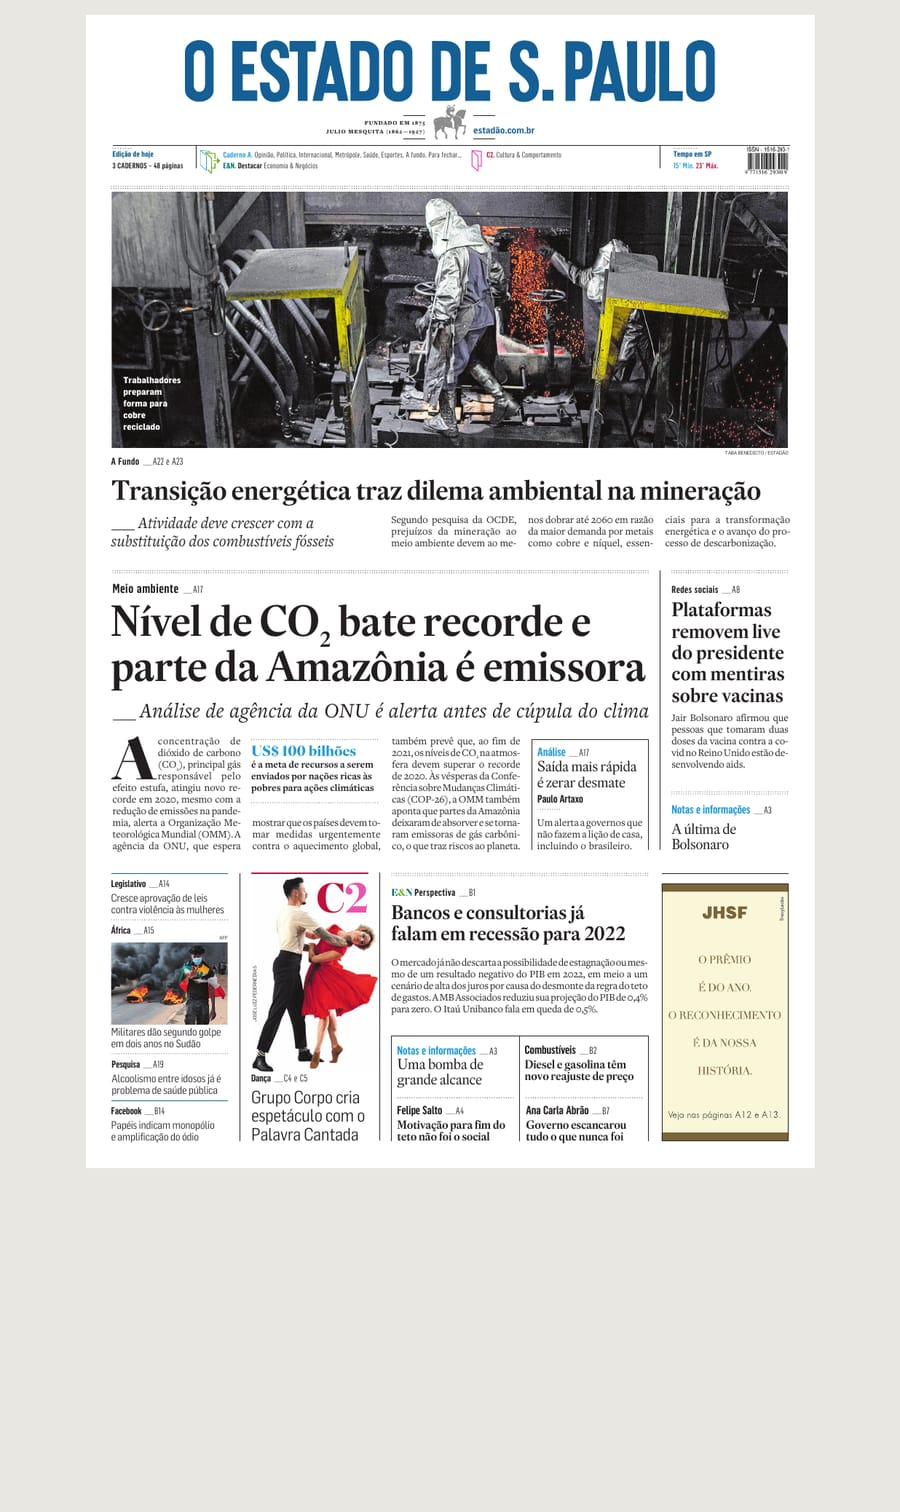
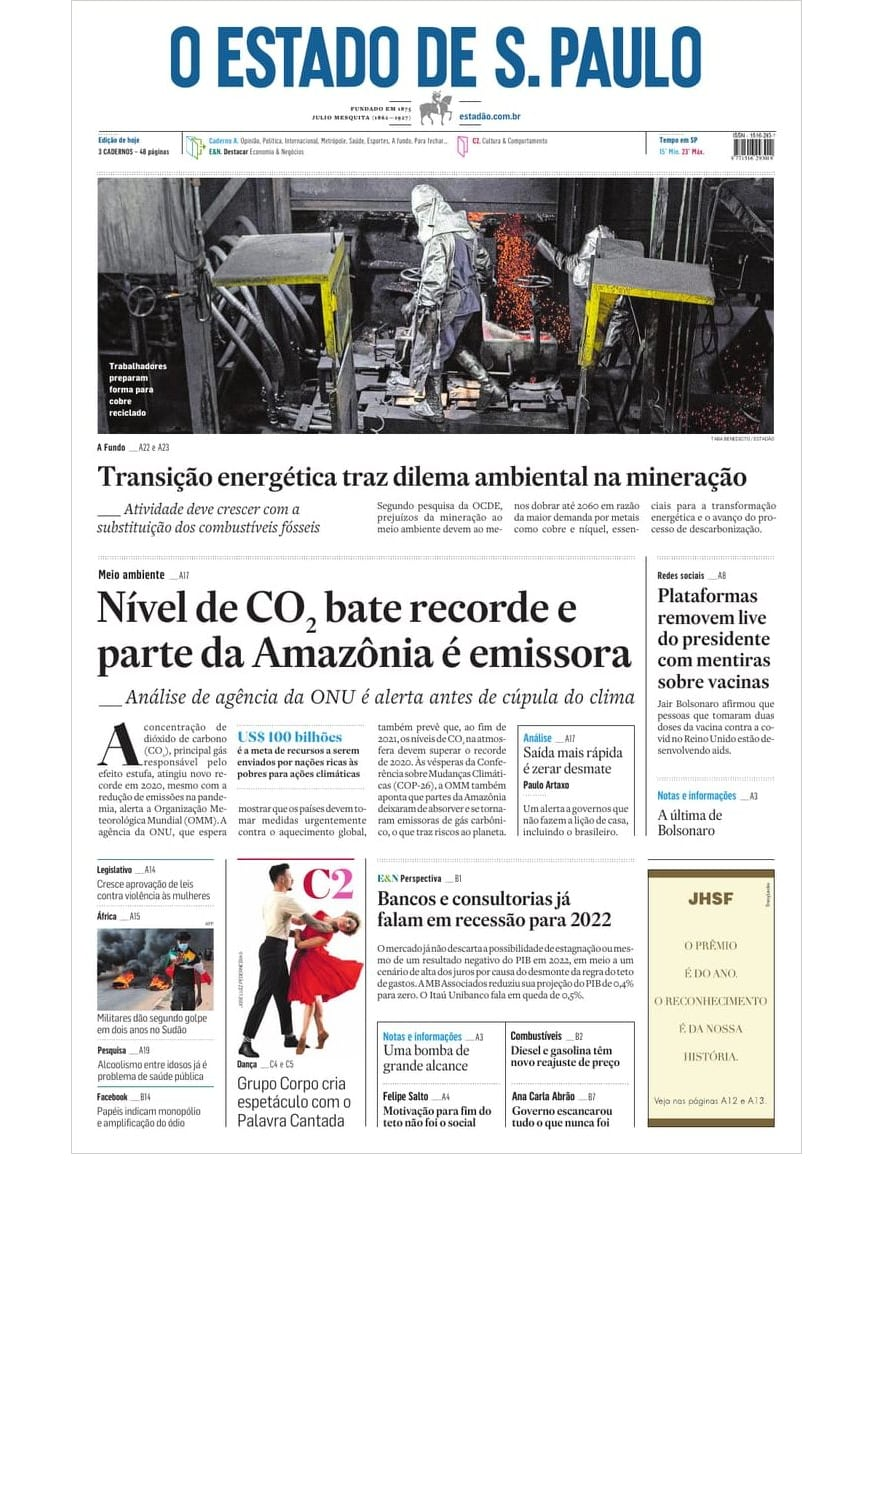
Pages sit on white, not on a beige board
- Estadão before/after: the standard page fills the frame; the smaller Berliner
  page sits on white with a hairline edge
- career timeline: the paper margin around pages is white, like the strips

diff --git a/src/lib/components/Chapters.svelte b/src/lib/components/Chapters.svelte
@@ -186,8 +186,8 @@
 		--page-h: 404px;
 		width: min(100%, calc(var(--page-h) * var(--r, 1) + 16px));
 		margin: 0 auto;
-		border: 8px solid #fbfaf7;
-		background: #fbfaf7;
+		border: 8px solid #fff;
+		background: #fff;
 		box-shadow: var(--shadow-surface);
 	}
 	/* single pages share one width, so a squarer page (a tabloid cover) does not look bigger
